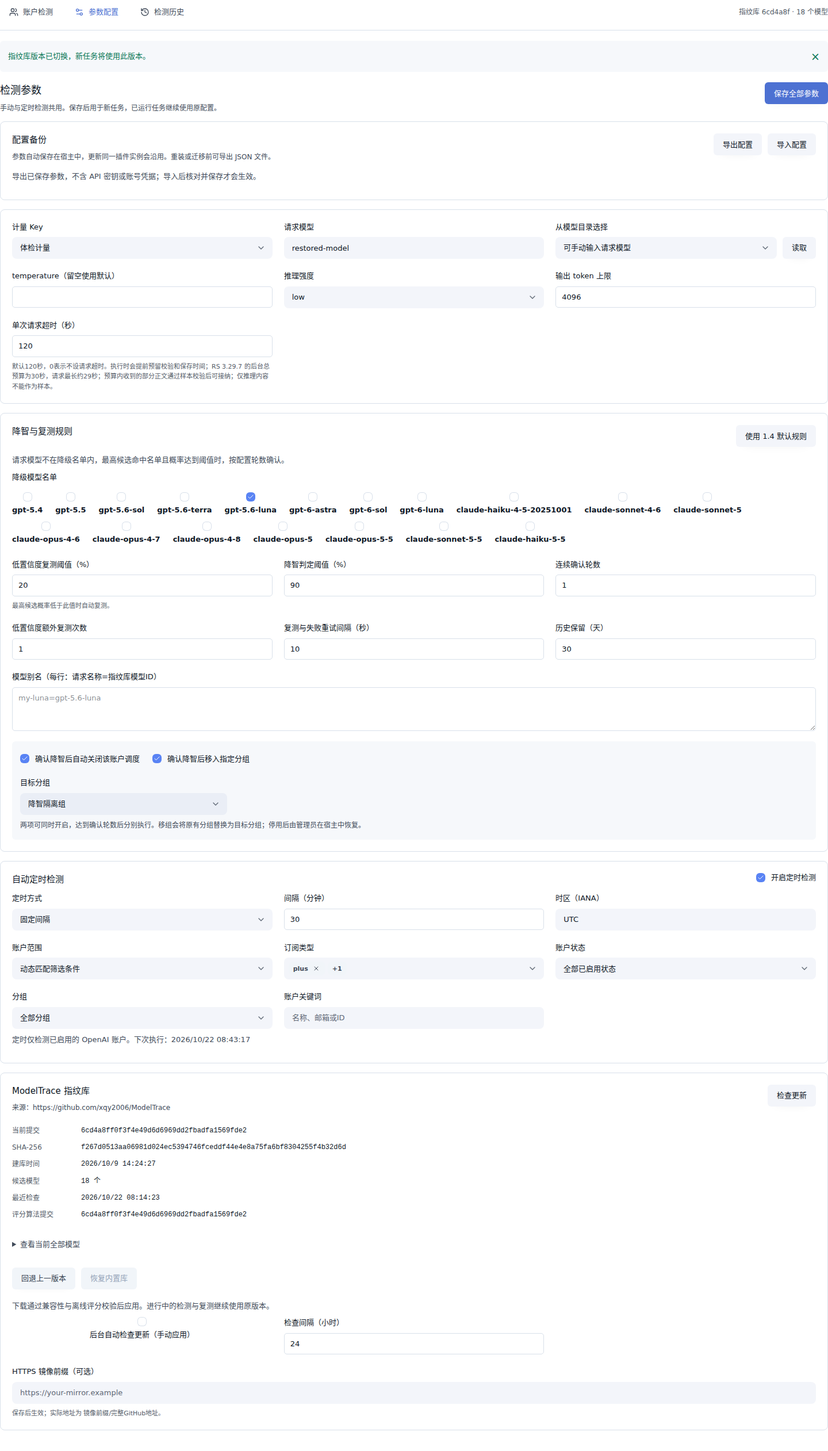
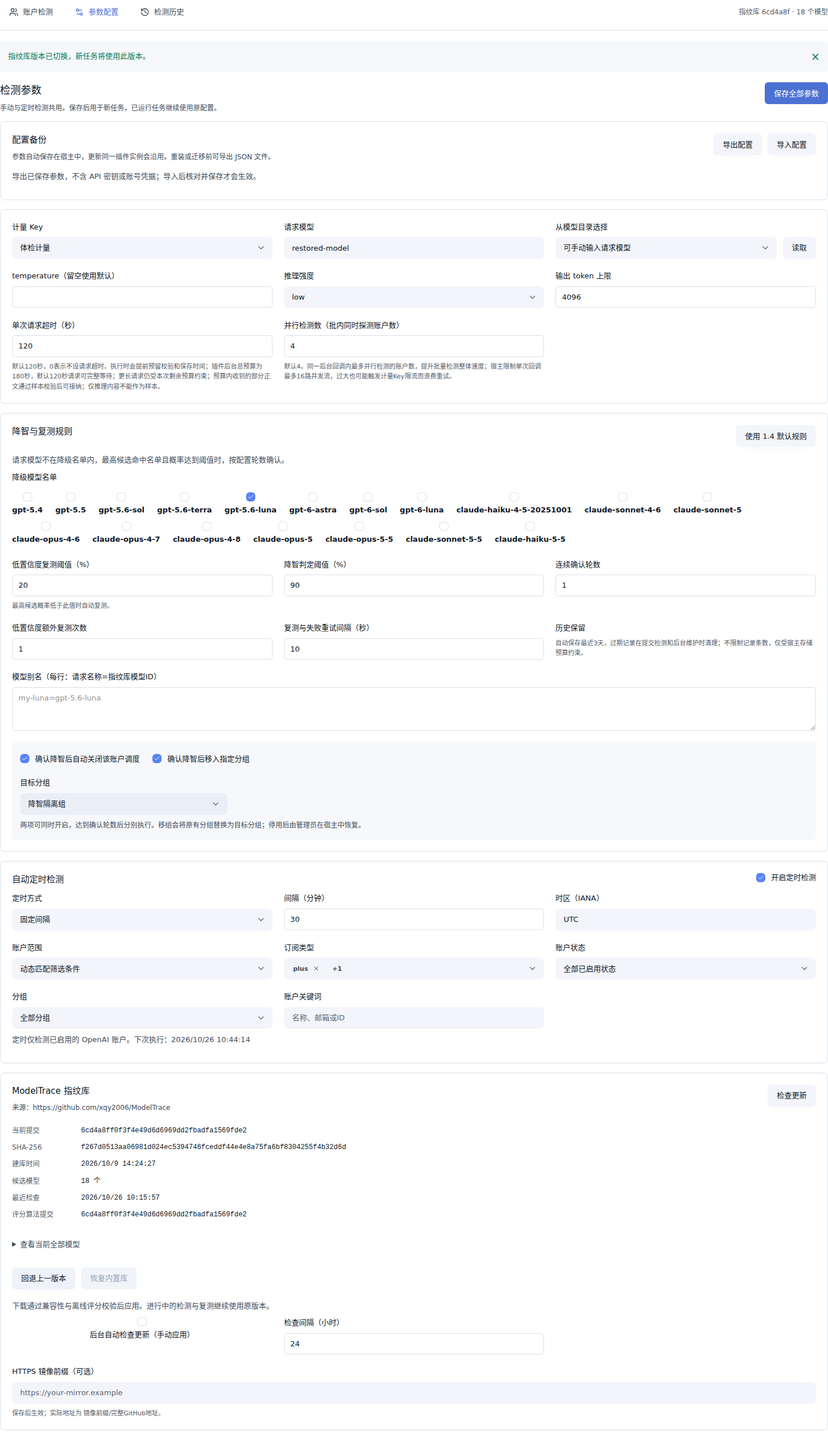
Release v1.8.0: adapt to CPR 3.32.0 call budgets

Changed region(s): [[0.3438, 0.2164, 0.5625, 0.2782], [0.6562, 0.4328, 0.9688, 0.4637], [0.0, 0.2473, 0.3125, 0.2782]]

diff --git a/frontend/src/components/Settings.vue b/frontend/src/components/Settings.vue
@@ -102,7 +102,7 @@ function save() {
       <label>temperature（留空使用默认）<input :value="cfg.temperature ?? ''" type="number" min="0" max="2" step="0.1" @input="cfg.temperature = ($event.target as HTMLInputElement).value === '' ? null : Number(($event.target as HTMLInputElement).value)"></label>
       <label>推理强度<ZSelect v-model="cfg.reasoningEffort" :options="['','none','minimal','low','medium','high','xhigh'].map(s => ({ value:s,label:s || '不传递' }))" aria-label="推理强度" /></label>
       <label>输出 token 上限<input type="number" min="512" max="16384" :value="cfg.maxOutputTokens" @input="number($event,'maxOutputTokens')"></label>
-      <label>单次请求超时（秒）<input type="number" min="0" step="1" :value="cfg.timeoutSeconds" @input="number($event,'timeoutSeconds')"><small>默认120秒，0表示不设请求超时。执行时会提前预留校验和保存时间；RS 3.31.1 的后台总预算为30秒，单任务请求最长约29秒，16路并行约26.5秒；预算内收到的部分正文通过样本校验后可接纳；仅推理内容不能作为样本。</small></label>
+      <label>单次请求超时（秒）<input type="number" min="0" step="1" :value="cfg.timeoutSeconds" @input="number($event,'timeoutSeconds')"><small>默认120秒，0表示不设请求超时。执行时会提前预留校验和保存时间；插件后台总预算为180秒，默认120秒请求可完整等待；更长请求仍受本次剩余预算约束；预算内收到的部分正文通过样本校验后可接纳；仅推理内容不能作为样本。</small></label>
       <label>并行检测数（批内同时探测账户数）<input type="number" min="1" max="16" step="1" :value="cfg.maxConcurrency" @input="number($event,'maxConcurrency')"><small>默认4。同一后台回调内最多并行检测的账户数，提升批量检测整体速度；宿主限制单次回调最多16路并发流，过大也可能触发计量Key限流而浪费重试。</small></label>
     </section>
 

diff --git a/scripts/protocol_smoke.py b/scripts/protocol_smoke.py
@@ -31,7 +31,7 @@ def model_events(*values, end=False, wire_kind='json', parsed=True):
     return {'events':len(events),'end':end},b'HME1'+struct.pack('>I',len(events))+b''.join(struct.pack('>I',len(e)) for e in events)+b''.join(events)
 
 class Host:
-    def __init__(self, binary=BINARY, state=None, protocol_version=5):
+    def __init__(self, binary=BINARY, state=None, protocol_version=6):
         self.protocol_version=protocol_version
         self.send_lock=threading.Lock();self.timers=[]
         self.state={} if state is None else state
@@ -51,6 +51,7 @@ class Host:
         contributes={name:{'id':'personal.modeltrace-health.'+name,'version':version,'stages':[name]} for name,version in [('management',2),('maintenance',1)]}
         self.send({'type':'hello','handshake':{'protocol_version':protocol_version,'artifact_sha256':'a'*64,'plugin_id':'personal.modeltrace-health','instance_id':'test','generation':1,'incarnation':'test-run','contributes':contributes}}, {})
         ready,_,_=self.receive();assert ready['type']=='ready',ready
+        self.call_budgets=ready.get('call_budgets',{})
 
     def send(self,meta,data=None,payload=b''):
         meta=copy.deepcopy(meta);encoded=b'' if data is None else raw(data)
@@ -63,7 +64,7 @@ class Host:
         def read(n):
             out=b''
             while len(out)<n:
-                if not select.select([self.process.stdout],[],[],35)[0]:raise AssertionError('Plugin RPC timed out')
+                if not select.select([self.process.stdout],[],[],max(35,getattr(self,'receive_timeout',35)))[0]:raise AssertionError('Plugin RPC timed out')
                 chunk=os.read(self.process.stdout.fileno(),n-len(out))
                 if not chunk:raise AssertionError('Plugin stopped: '+self.process.stderr.read().decode()[:1000])
                 out+=chunk
@@ -73,6 +74,7 @@ class Host:
 
     def call(self,method,params=None,payload=b'',stage='management',timeout_ms=30000):
         i=self.sequence;self.sequence+=2
+        self.receive_timeout=timeout_ms/1000+5
         context={'call_id':i,'instance_id':'test','generation':1,'incarnation':'test-run','stage':stage,'timeout_ms':timeout_ms,'resource_stream':False,'resource_scope_id':f'scope-{i}','request_id':None,'attempt_id':None,'account_id':None,'credential_revision':None}
         self.send({'type':'call','id':i,'method':method,'context':context},params or {},payload)
         while True:
@@ -104,6 +106,7 @@ class Host:
         return result
 
     def tick(self,n=1,budget_ms=30000):
+        # 旧回归有意保留 30 秒短预算；新预算用例使用 ready 中协商的值。
         for _ in range(n):self.call('plugin.reconcile',stage='maintenance',timeout_ms=budget_ms)
 
     def stream(self,body):
@@ -600,7 +603,7 @@ class Integration(unittest.TestCase):
         self.assertEqual(self.host.move_calls,1);self.assertEqual(len(self.host.executions),1)
 
     def test_registration_and_queries(self):
-        _,payload=self.host.call('management.register',stage='registration');registration=json.loads(payload);self.assertIn('api/report',[r['path'] for r in registration['routes']])
+        _,payload=self.host.call('management.register',stage='registration',timeout_ms=5000);registration=json.loads(payload);self.assertIn('api/report',[r['path'] for r in registration['routes']])
         self.assertEqual(self.host.request('api/accounts')['accounts'][0]['groups'][0]['id'],'group-test')
         self.assertIn('gpt-6.1-sol',self.host.request('api/models?keyId=key-test')['models'])
     def test_batch_delete_history_skips_active_and_keeps_legacy_id(self):
@@ -675,6 +678,40 @@ class Integration(unittest.TestCase):
             self.host.tick();report=self.host.request('api/report?id='+identity)
         self.assertEqual(len(self.host.executions),2) # Warmup + one slow probe; scoring never replays it.
         self.assertEqual(report['status'],'completed');self.assertEqual(len(report['rounds']),1);self.assertEqual(self.host.closes,0)
+    def test_declared_budget_allows_parallel_responses_after_thirty_seconds(self):
+        self.assertEqual(self.host.protocol_version,6)
+        self.assertEqual(self.host.call_budgets,{'maintenance':180000})
+        self.config(lowConfidencePercent=0,degradedPercent=100,maxConcurrency=4)
+        ids=['acct-test',*[f'acct-long-{i}' for i in range(3)]]
+        self.host.additional_accounts=[{'id':i,'name':i,'provider':'openai','enabled':True,'status':'normal','groups':[]} for i in ids[1:]]
+        submitted=self.host.request('api/submit',{'accountIds':ids,'requestId':'parallel-after-thirty'})['submitted']
+        self.host.model_response_delay=31
+        self.host.tick(budget_ms=self.host.call_budgets['maintenance'])
+        for identity in submitted:
+            report=self.host.request('api/report?id='+identity)
+            self.assertEqual(report['status'],'completed')
+            self.assertEqual(len(report['attempts']),1)
+            self.assertIsNone(report['attempts'][0]['error'])
+            diagnostics=report['attempts'][0]['diagnostics']
+            self.assertGreaterEqual(diagnostics['elapsedMs'],31000)
+            self.assertGreaterEqual(diagnostics['budgetMs'],119000)
+            self.assertLessEqual(diagnostics['budgetMs'],120000)
+        self.assertEqual(len(self.host.executions),4)
+        self.assertEqual(self.host.closes,0)
+
+    def test_declared_budget_allows_response_after_old_sdk_cap(self):
+        self.config(timeoutSeconds=150,lowConfidencePercent=0,degradedPercent=100)
+        identity=self.submit();self.host.model_response_delay=121
+        self.host.tick(budget_ms=self.host.call_budgets['maintenance'])
+        report=self.host.request('api/report?id='+identity)
+        self.assertEqual(report['status'],'completed')
+        self.assertEqual(len(report['attempts']),1)
+        self.assertIsNone(report['attempts'][0]['error'])
+        self.assertGreaterEqual(report['attempts'][0]['diagnostics']['elapsedMs'],121000)
+        self.assertGreaterEqual(report['attempts'][0]['diagnostics']['budgetMs'],149000)
+        self.assertEqual(len(self.host.executions),1)
+        self.assertEqual(self.host.closes,0)
+
     def test_late_response_scores_in_same_callback(self):
         # A response at 28.7s must use the extended request window and score
         # immediately, without waiting for another maintenance callback.
@@ -1174,5 +1211,5 @@ class Integration(unittest.TestCase):
 if __name__=='__main__':
     parser=argparse.ArgumentParser();parser.add_argument('--binary',type=Path,default=BINARY);parser.add_argument('--deny-timestamps',action='store_true',help='Use strace to deny utimensat and exercise restricted runtime extraction');parser.add_argument('--runtime-tmpdir',type=Path,help='Set TMPDIR for the plugin process to exercise runtime directory fallback');args,remaining=parser.parse_known_args();BINARY=args.binary;DENY_TIMESTAMPS=args.deny_timestamps;RUNTIME_TMPDIR=args.runtime_tmpdir
     # Host defaults are evaluated at definition time.
-    Host.__init__.__defaults__=(BINARY,None,5)
+    Host.__init__.__defaults__=(BINARY,None,6)
     unittest.main(argv=[sys.argv[0],*remaining])

diff --git a/backend/src/main.rs b/backend/src/main.rs
@@ -5,7 +5,7 @@ mod host;
 mod manager;
 mod progress;
 use gateway_plugin_sdk::{
-    Manifest, PluginFault,
+    CallBudgets, Manifest, PluginFault, Stage,
     call::management::*,
     client::{Empty, PluginBuilder, PluginSession, SessionConfig, TypedCall, TypedReply, methods},
 };
@@ -244,7 +244,7 @@ async fn handle(
 }
 #[tokio::main(flavor = "current_thread")]
 async fn main() -> Result<(), Box<dyn std::error::Error>> {
-    let session = PluginSession::accept(
+    let mut session = PluginSession::accept(
         tokio::io::stdin(),
         tokio::io::stdout(),
         SessionConfig::default(),
@@ -256,6 +256,8 @@ async fn main() -> Result<(), Box<dyn std::error::Error>> {
     {
         return Err("插件握手身份不匹配".into());
     }
+    // 默认模型请求需要完整的 120 秒，另留准备、并行结果保存和评分时间。
+    session.set_call_budgets(CallBudgets::from([(Stage::Maintenance, 180_000)]))?;
     let progress = Arc::new(progress::Progress::new());
     let manager = manager::Manager::new(progress.clone());
     let reload_signal = manager.reload_flag();
@@ -350,12 +352,11 @@ async fn main() -> Result<(), Box<dyn std::error::Error>> {
                         flag: reload_signal,
                         armed: true,
                     };
-                    let result = m
-                        .tick(
-                            &call.host,
-                            std::time::Duration::from_millis(call.context.timeout_ms),
-                        )
-                        .await;
+                    let budget = call
+                        .host
+                        .remaining_budget()
+                        .ok_or_else(|| host::fault("维护预算不可用"))?;
+                    let result = m.tick(&call.host, budget).await;
                     guard.armed = false;
                     if let Err(e) = result {
                         m.loaded = false;

diff --git a/scripts/verify_artifact.py b/scripts/verify_artifact.py
@@ -22,8 +22,8 @@ with tempfile.TemporaryDirectory(prefix='modeltrace-package-check-') as director
         archive.extractall(root,filter='data')
     manifest=json.loads((root/'plugin.json').read_text())
     assert manifest['publisher']== 'personal' and manifest['name']== 'modeltrace-health'
-    assert manifest['package']['protocolVersion'] == 5
-    assert manifest['engines']['codex-proxy-rs'] == '>=3.31.1, <3.32.0'
+    assert manifest['package']['protocolVersion'] == 6
+    assert manifest['engines']['codex-proxy-rs'] == '>=3.32.0, <3.33.0'
     assert set(manifest['package']['files']) == {manifest['main'], *manifest['resources']}
     for path, expected in manifest['package']['files'].items():
         assert hashlib.sha256((root/path).read_bytes()).hexdigest() == expected, path

diff --git a/backend/src/manager.rs b/backend/src/manager.rs
@@ -841,8 +841,7 @@ impl Manager {
         host: &HostClient,
         budget: std::time::Duration,
     ) -> Result<(), PluginFault> {
-        // Up to 29s for requests; the warm worker can validate and score within
-        // the final second. Keep a separate margin for state persistence.
+        // 请求窗口随宿主本次预算变化，预留收尾时间，不再假定维护只有 30 秒。
         self.request_window = budget.saturating_sub(std::time::Duration::from_secs(1));
         self.deadline = Some(
             tokio::time::Instant::now()

diff --git a/docs/verification.md b/docs/verification.md
@@ -1,12 +1,27 @@
-# v1.7.3 验证记录
+# v1.8.0 验证记录
 
-使用 Codex Proxy RS 3.31.1 官方标签对应提交 `06e1d8f0ac33d8633198d837c4f9017ad466f358` 的 SDK 和打包工具重新编译。
+适配 Codex Proxy RS `>=3.32.0,<3.33.0`，Linux x86_64、glibc 2.36+。SDK 和打包工具固定到官方 `v3.32.0` 标签对应提交 `6a5300a7b5c649f2a6d548df70ccdd58d15e0025`。安装包使用 RPC v6；管理能力 v2、维护能力 v1、私有状态 schema 和评分算法保持不变。
 
-适配 Codex Proxy RS `>=3.31.1,<3.32.0`，Linux x86_64、glibc 2.36+。RPC v5、管理能力 v2、维护能力 v1 和私有状态 schema 保持兼容。SDK 差异包括新增 outbound 中间件合同，以及移除模型响应观测中的旧模型名称字段；本插件使用的账户、状态、模型流、管理与维护接口无需源码迁移。
+## 30 秒超时结论
 
-## 单核构建
+旧的维护预算截断已解决，需要同时升级 CPR 宿主及本插件。CPR 3.32.0 将默认维护预算从 30 秒改为 120 秒，并移除 SDK 统一 120 秒截断。本插件通过 `PluginSession::set_call_budgets` 显式声明维护阶段 180,000 毫秒，宿主和 SDK 从同一份声明解析预算；执行器通过 `HostClient::remaining_budget()` 获取实际剩余时间，不再从初始上下文重新起算。
 
-前端、Rust 插件和 CPR 打包工具全部通过 `taskset -c 0` 绑定到 CPU 0，设置 `CARGO_BUILD_JOBS=1`、`RAYON_NUM_THREADS=1`。插件使用仓库固定的 Rust 1.99.1，前端使用 Node 24.22.0。
+选择 180 秒是为了给默认 120 秒模型请求预留准备、并行结果保存和评分时间。仅采用宿主默认的 120 秒维护预算，模型请求仍会被准备与收尾时间压缩。请求实际期限仍取配置超时与本次剩余维护预算扣除收尾时间后的较短值；0 只关闭插件请求超时，不能无限等待。
+
+实际发布二进制在模拟宿主下通过两项长请求回归：
+
+- 4 个账户并行，模型结果统一延迟 31 秒返回；全部在同次维护回调完成评分，每账户只请求一次，诊断中的请求窗口约 120 秒，无超时、无主动关闭。
+- 请求超时配置为 150 秒，模型结果延迟 121 秒返回；同次回调正常完成评分，只请求一次，证明 SDK 不再在 120 秒统一截断。
+
+维护回调结束后约 30 秒再次调度的间隔仍存在，与单次处理预算不同。独立网络期限、上游错误、主动取消、停用或替换实例及进程重启仍可能提前终止请求；长预算不提供跨重启续跑。有效数字不足、上游凭据失效等问题也不能仅靠增加预算保证解决。已经结束的旧失败或中断任务需重新提交。
+
+宿主维护调度源码保留未被替换的实例任务，无关配置发布只合并通知；替换实例前先等待旧调用取消确认或进程退出。此项为官方源码核对，未在生产宿主复现验证。
+
+依据：[官方 3.32.0 发布说明](https://github.com/zyycn/codex-proxy-rs/releases/tag/v3.32.0)、[SDK 预算声明合同](https://github.com/zyycn/codex-proxy-rs/blob/6a5300a7b5c649f2a6d548df70ccdd58d15e0025/backend/crates/gateway-plugin/sdk/README.md#声明调用预算)、[维护任务生命周期](https://github.com/zyycn/codex-proxy-rs/blob/6a5300a7b5c649f2a6d548df70ccdd58d15e0025/backend/crates/gateway-plugin/runtime/src/generation/prepare/maintenance.rs)。
+
+## 构建与安装包
+
+前端、Rust 插件和 CPR CLI 构建均通过 `taskset -c 0` 绑定 CPU 0，设置 `CARGO_BUILD_JOBS=1`、`RAYON_NUM_THREADS=1`。使用 Rust 1.99.1、Node 24.22.0，依赖锁文件固定。
 
 ```bash
 taskset -c 0 env CARGO_BUILD_JOBS=1 RAYON_NUM_THREADS=1 \
@@ -14,31 +29,42 @@ taskset -c 0 env CARGO_BUILD_JOBS=1 RAYON_NUM_THREADS=1 \
   --release --target x86_64-unknown-linux-gnu.2.36
 ```
 
-CPR CLI 从 `v3.31.1` 官方源码的 `backend/apps/plugin-cli` 编译，使用官方 workspace 锁文件；插件 SDK 依赖固定到同一提交，前后端依赖锁文件保留。
+CPR CLI 从 3.32.0 官方源码的 `backend/apps/plugin-cli` 构建，使用官方 workspace 锁文件。Python/NumPy 运行时由 `refresh_runtime.py` 从已验证包与全部资源摘要的 1.7.3 安装包复用，算法和依赖没有变化。第三方许可条目及正文核对相同，保留原排序。
 
-私有 Python/NumPy 运行时从验证过原包摘要及全部资源摘要的 1.7.2 安装包复用，并通过 `refresh_runtime.py` 刷新随附源码。运行时依赖和评分算法未修改。
+交付文件：`dist/personal.modeltrace-health-1.8.0-x86_64-unknown-linux-gnu.tar.gz`，30,763,588 字节。
+
[1 lines of base64/hex data omitted]
+
[1 lines of base64/hex data omitted]
 
 ## 验证结果
-
[1 lines of base64/hex data omitted]
 
 | 验证 | 结果 |
 | --- | --- |
 | Rust 单元测试 | 17 项通过 |
 | Python 评分单元测试 | 6 项通过 |
-| 静态检查 | `cargo fmt --check`、Clippy `-D warnings`、`vue-tsc --noEmit` 通过 |
+| 静态检查 | `cargo fmt --check`、Clippy `-D warnings`、前端类型检查通过 |
 | 前端生产构建 | Vite 构建通过，2,158 个模块 |
-| 安装包校验 | 包摘要、全部资源摘要、manifest、协议 v5、私有 Python/NumPy 离线评分和实际插件解包检测通过；18 个指纹模型 |
-| RPC 回归（安装包二进制） | 68 项全部通过，347.493 秒 |
-| 升级回归 | 1.7.2 → 1.7.3 通过：配置、计划、历史和指纹库保留，无探针重发 |
-| 受限运行时解包 | 通过 strace 拒绝时间戳系统调用后，实际发布二进制仍完成检测与评分 |
+| 安装包校验 | 协议 v6、宿主范围、包和全部资源摘要、18 个模型离线校验、实际插件解包与评分通过 |
+| RPC 回归（安装包二进制） | 70 项均通过，包含 68 项原有用例和 2 项新增长请求用例 |
+| 升级回归 | 1.7.3 → 1.8.0 通过，配置、计划、历史和指纹库保留，无探针重发 |
+| 浏览器回归 | 既有 Playwright 检测、配置、取消、报告、移动布局与深浅主题用例通过，无页面错误；设置页截图已更新 |
+| 受限解包 | strace 拒绝时间戳系统调用后，发布二进制仍完成解包、检测和评分 |
 
[1 lines of base64/hex data omitted]
+RPC 回归分为 34 + 34 + 2 项三批运行。第一批 34 项通过（186.223 秒），第二批原有用例中注册用例首次因模拟宿主仍向注册阶段传入 30 秒而被新版 SDK 拒绝；改为合同规定的 5 秒后该项单独重跑通过（1.161 秒），其余 33 项通过。新增长请求批次 2 项通过（156.679 秒）。旧回归继续显式使用 30 秒或更短预算，以覆盖预算不足、部分结果、并行收尾、重复超时终止、取消与重启恢复。
 
-Zig 链接保留既有优化参数弃用提示，发布构建成功。受限解包测试首次在沙箱中因禁止 `ptrace` 无法启动，随后在允许跟踪自有子进程的环境重跑通过。
+新增长请求可单独复现（替换为解包后的二进制路径）：
 
-测试使用实际发布二进制与模拟宿主，不发送真实账户模型请求。本次未在生产 CPR 宿主安装或切换版本；前端仅更新宿主版本文案，类型检查和生产构建通过，未重跑浏览器交互测试。
+```bash
+.venv/bin/python scripts/protocol_smoke.py --binary /path/bin/modeltrace-health \
+  Integration.test_declared_budget_allows_parallel_responses_after_thirty_seconds \
+  Integration.test_declared_budget_allows_response_after_old_sdk_cap -v
+```
+
+完整回归：`.venv/bin/python scripts/protocol_smoke.py --binary /path/bin/modeltrace-health -v`。
+
+Zig 链接保留既有优化参数弃用提示，构建成功。测试使用实际插件进程与模拟宿主、模型流和私有状态，不发送真实账户模型请求；本次未在生产 CPR 宿主安装或切换版本。
 
 ## 历史验证
 
-[1.7.2](verification-v1.7.2.md)、[1.7.1](verification-v1.7.1.md)、[1.7.0](verification-v1.7.0.md)、[1.6.1](verification-v1.6.1.md)。
+[1.7.3](verification-v1.7.3.md)、[1.7.2](verification-v1.7.2.md)、[1.7.1](verification-v1.7.1.md)、[1.7.0](verification-v1.7.0.md)。

diff --git a/README.md b/README.md
@@ -4,15 +4,23 @@
 
 ## 安装
 
-适配 **Codex Proxy RS >=3.31.1、<3.32.0**，发布包适用于 Linux x86_64、glibc 2.36+。运行模式为 `trustedProcess`。安装包包含私有 Python/NumPy 评分运行时，无需安装系统 Python 或单独运行 ModelTrace 服务。
+适配 **Codex Proxy RS >=3.32.0、<3.33.0**，发布包适用于 Linux x86_64、glibc 2.36+。运行模式为 `trustedProcess`。安装包包含私有 Python/NumPy 评分运行时，无需安装系统 Python 或单独运行 ModelTrace 服务。
 
 在宿主「插件管理 → 安装插件 → 上传包」上传：
 
-`dist/personal.modeltrace-health-1.7.3-x86_64-unknown-linux-gnu.tar.gz`
+`dist/personal.modeltrace-health-1.8.0-x86_64-unknown-linux-gnu.tar.gz`
 
 启用后打开「账号降智检测」，进入「参数配置」选择已有计量 Key，保存后即可单号或批量检测。检测请求由宿主按指定账户 ID 执行，使用该账户绑定的代理并计入所选 Key。Key 的账户分组和模型权限仍由宿主校验。页面仅接收 Key ID 和名称。
 
 运行时首次检测会解出约91MB文件，目标目录需可写、可执行并有足够空间。自动跳过 `noexec` 临时目录，解包失败时清理残留并尝试 `/var/tmp`，兼容 Docker 中仅64MB且禁止执行的 `/tmp`。可用宿主进程的 `MODELTRACE_RUNTIME_DIR` 指定首选目录，或用 `TMPDIR` 修改系统临时目录。解包不恢复不必要的文件时间戳；异常会显示具体条目和系统错误。
+
+### 1.8.0 CPR 3.32.0 SDK 与长调用预算
+
+- SDK 和打包工具更新到官方 `v3.32.0` 标签对应提交 `6a5300a7b5c649f2a6d548df70ccdd58d15e0025`，安装包使用 RPC v6；旧宿主不支持此协议。
+- 启动时通过 SDK 显式声明维护预算 180 秒，并从共享期限读取实际剩余预算，给默认 120 秒模型请求预留准备、保存和评分时间。
+- 旧的 30 秒维护截断和 SDK 统一 120 秒截断已移除；仍按请求超时、宿主剩余预算和独立网络期限执行。0 表示不设插件请求超时，仍受有限维护预算约束。
+- 无关配置发布不再取消维护由 CPR 3.32.0 宿主保障；停用、替换实例及重启仍可能中断请求。已保存结果继续恢复，结果不确定的探针不会自动重发。
+- 更新现有实例保留配置、计划、历史、指纹库和提交去重；旧失败或中断任务需重新提交。构建与实测见 [验证记录](docs/verification.md)。
 
 ### 1.7.3 CPR 3.31.1 SDK 更新
 
@@ -161,7 +169,7 @@
 
 后台按批次执行账户检测任务：单次维护回调内默认并行检测4个账户（「并行检测数」可调1至16），同一任务的各轮之间、以及任务状态机（准备、请求、校验、评分、复测）本身保持串行；不同账户共用调度、评分与状态保存通道。宿主在每次维护回调结束后约30秒再次调度。并行批次会按账户数预留收尾预算，先把同批回答逐个保存，再校验和评分。每一批发请求前都检查完整窗口，剩余预算不足时等待下一次调度，不消耗采样尝试。预算充足时一次回调内继续执行确认后的账户操作并开始下一批账户检测。冷启动准备较慢时先保存挑战，下一次回调再发请求，避免准备挤占请求窗口。剩余预算不足时保留已完成的安全步骤，下次继续。每个任务每次回调仍最多推进一轮或一次失败尝试；首次开始、重试和复测仍受宿主调度间隔影响；倒计时结束表示可执行，仍需等待调度。关闭页面不影响执行；取消会通知执行器结束等待并关闭进行中的模型流，不再等完整请求超时。
 
-请求超时默认120秒，0表示不设置插件请求超时。执行器取配置超时与宿主剩余预算中的较短值；RS 3.31.1 的维护回调总预算为30秒，单任务请求窗口最长约29秒，16路并行约26.5秒，配置120秒不代表本次回调可以等待120秒。回答保存后暂时无法校验时显示「已保存回答，等待校验」，有效样本暂时无法评分时显示「已获得有效样本，等待评分」；下一次优先继续处理，不重发请求。报告记录实际及目标请求窗口、正文和流数据量。超时或截断时，部分正文通过原有样本校验后可继续评分；有效样本不足时按失败规则重试。连续两次完整请求窗口的宿主预算超时会停止重复请求，完整窗口按本批并发数扣除收尾预算计算。完成事件后继续读取宿主 EOF，收尾超时保留已确定结果。维护 RPC 取消、进程重启或存储确认失败后，下一次调用重新读取私有状态：排队任务和已保存结果继续处理，只有已发出且没有已保存结果的请求才标记为中断并提示重新检测。升级保留原配置；已提交任务继续使用原配置快照。
+请求超时默认120秒，0表示不设置插件请求超时。执行器取配置超时与宿主剩余预算中的较短值；CPR 3.32.0 的维护默认预算为120秒，本插件显式声明180秒，给默认120秒请求留下收尾空间。更长请求（含0）仍受本次剩余预算扣除收尾时间后的窗口限制，不能无限等待；独立网络超时和主动取消仍可能更早结束请求。维护调度间隔约30秒与单次预算是两件事。回答保存后暂时无法校验时显示「已保存回答，等待校验」，有效样本暂时无法评分时显示「已获得有效样本，等待评分」；下一次优先继续处理，不重发请求。报告记录实际及目标请求窗口、正文和流数据量。超时或截断时，部分正文通过原有样本校验后可继续评分；有效样本不足时按失败规则重试。连续两次完整请求窗口的宿主预算超时会停止重复请求，完整窗口按本批并发数扣除收尾预算计算。完成事件后继续读取宿主 EOF，收尾超时保留已确定结果。维护 RPC 取消、进程重启或存储确认失败后，下一次调用重新读取私有状态：排队任务和已保存结果继续处理，只有已发出且没有已保存结果的请求才标记为中断并提示重新检测。升级保留原配置；已提交任务继续使用原配置快照。
 
 ### 配置保留与备份
 
@@ -205,7 +213,7 @@ cargo build --manifest-path backend/Cargo.toml --locked
 .venv/bin/python scripts/build_runtime.py
 cargo zigbuild --manifest-path backend/Cargo.toml --locked --release --target x86_64-unknown-linux-gnu.2.36
 cpr-plugin package --manifest plugin.json --binary backend/target/x86_64-unknown-linux-gnu/release/modeltrace-health --target x86_64-unknown-linux-gnu --resource-map web=frontend/dist --output-dir dist
-.venv/bin/python scripts/verify_artifact.py dist/personal.modeltrace-health-1.7.3-x86_64-unknown-linux-gnu.tar.gz
+.venv/bin/python scripts/verify_artifact.py dist/personal.modeltrace-health-1.8.0-x86_64-unknown-linux-gnu.tar.gz
 ```
 
 基础镜像已缓存时可向 `build_runtime.py` 传 `--base-tar /path/python-base.tar`。脚本验证固定镜像配置、各镜像层和NumPy wheel哈希，不依赖Docker守护进程。`scripts/package.sh` 可串联构建和校验，需在已激活的开发环境运行。

diff --git a/docs/verification-v1.7.3.md b/docs/verification-v1.7.3.md
@@ -1,0 +1,44 @@
+# v1.7.3 验证记录
+
+使用 Codex Proxy RS 3.31.1 官方标签对应提交 `06e1d8f0ac33d8633198d837c4f9017ad466f358` 的 SDK 和打包工具重新编译。
+
+适配 Codex Proxy RS `>=3.31.1,<3.32.0`，Linux x86_64、glibc 2.36+。RPC v5、管理能力 v2、维护能力 v1 和私有状态 schema 保持兼容。SDK 差异包括新增 outbound 中间件合同，以及移除模型响应观测中的旧模型名称字段；本插件使用的账户、状态、模型流、管理与维护接口无需源码迁移。
+
+## 单核构建
+
+前端、Rust 插件和 CPR 打包工具全部通过 `taskset -c 0` 绑定到 CPU 0，设置 `CARGO_BUILD_JOBS=1`、`RAYON_NUM_THREADS=1`。插件使用仓库固定的 Rust 1.99.1，前端使用 Node 24.22.0。
+
+```bash
+taskset -c 0 env CARGO_BUILD_JOBS=1 RAYON_NUM_THREADS=1 \
+  cargo zigbuild --manifest-path backend/Cargo.toml --locked --offline \
+  --release --target x86_64-unknown-linux-gnu.2.36
+```
+
+CPR CLI 从 `v3.31.1` 官方源码的 `backend/apps/plugin-cli` 编译，使用官方 workspace 锁文件；插件 SDK 依赖固定到同一提交，前后端依赖锁文件保留。
+
+私有 Python/NumPy 运行时从验证过原包摘要及全部资源摘要的 1.7.2 安装包复用，并通过 `refresh_runtime.py` 刷新随附源码。运行时依赖和评分算法未修改。
+
+## 验证结果
+
[1 lines of base64/hex data omitted]
+
+| 验证 | 结果 |
+| --- | --- |
+| Rust 单元测试 | 17 项通过 |
+| Python 评分单元测试 | 6 项通过 |
+| 静态检查 | `cargo fmt --check`、Clippy `-D warnings`、`vue-tsc --noEmit` 通过 |
+| 前端生产构建 | Vite 构建通过，2,158 个模块 |
+| 安装包校验 | 包摘要、全部资源摘要、manifest、协议 v5、私有 Python/NumPy 离线评分和实际插件解包检测通过；18 个指纹模型 |
+| RPC 回归（安装包二进制） | 68 项全部通过，347.493 秒 |
+| 升级回归 | 1.7.2 → 1.7.3 通过：配置、计划、历史和指纹库保留，无探针重发 |
+| 受限运行时解包 | 通过 strace 拒绝时间戳系统调用后，实际发布二进制仍完成检测与评分 |
+
[1 lines of base64/hex data omitted]
+
+Zig 链接保留既有优化参数弃用提示，发布构建成功。受限解包测试首次在沙箱中因禁止 `ptrace` 无法启动，随后在允许跟踪自有子进程的环境重跑通过。
+
+测试使用实际发布二进制与模拟宿主，不发送真实账户模型请求。本次未在生产 CPR 宿主安装或切换版本；前端仅更新宿主版本文案，类型检查和生产构建通过，未重跑浏览器交互测试。
+
+## 历史验证
+
+[1.7.2](verification-v1.7.2.md)、[1.7.1](verification-v1.7.1.md)、[1.7.0](verification-v1.7.0.md)、[1.6.1](verification-v1.6.1.md)。

diff --git a/docs/releases/v1.8.0.md b/docs/releases/v1.8.0.md
@@ -1,0 +1,17 @@
+# v1.8.0
+
+适配 Codex Proxy RS 3.32.0 的 RPC v6 和分阶段调用预算。
+
+- SDK 固定至官方 `v3.32.0` 标签对应提交 `6a5300a7b5c649f2a6d548df70ccdd58d15e0025`，使用同版 `cpr-plugin` 打包。
+- 宿主兼容范围为 **>=3.32.0、<3.33.0**。RPC v6 不兼容旧宿主，升级宿主和插件需配套进行。
+- 维护阶段显式声明 180 秒，执行器读取 SDK 共享期限的剩余预算；默认 120 秒模型请求有额外的准备与收尾空间。
+- 原来约 30 秒就结束的慢模型请求可以继续等待；自定义更长超时仍受有限维护预算和独立网络期限约束。0 不代表无限维护。
+- 管理能力 v2、维护能力 v1、私有状态 schema 和评分算法保持不变。更新现有实例保留配置、计划、历史和指纹库；已经结束的失败或中断任务需重新提交。
+
+发布包适用于 Linux x86_64、glibc 2.36+，包含私有 Python/NumPy 评分运行时。
+
+安装包：`personal.modeltrace-health-1.8.0-x86_64-unknown-linux-gnu.tar.gz`，另附 `.sha256`。在 CPR 插件管理中上传安装包并更新现有实例。
+
+已通过 70 项 RPC 回归、17 项 Rust 单元测试、6 项 Python 评分测试、浏览器检查，以及 1.7.3 → 1.8.0 升级保留验证。长请求实测覆盖四路并行 31 秒响应和单次 121 秒响应，均正常完成；测试使用实际发布二进制与模拟宿主，未在生产宿主部署。完整结果见 [验证记录](https://github.com/Victor-Tau/jzjc/blob/v1.8.0/docs/verification.md)。
+
[1 lines of base64/hex data omitted]
